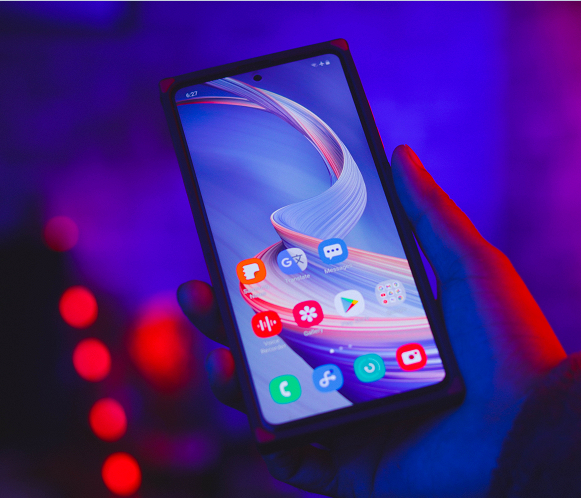
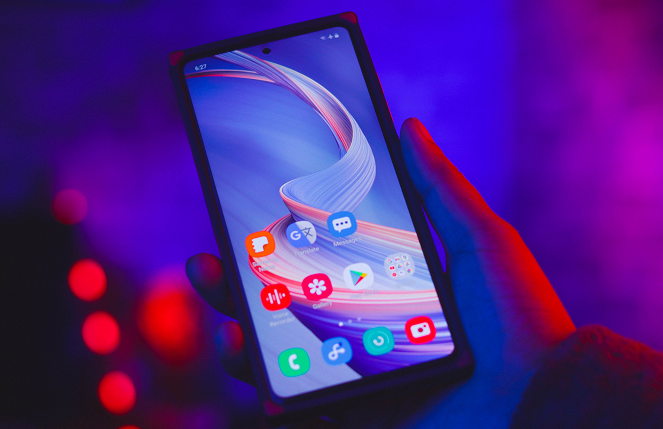
Projects page is mostly done. Added in two more mock projects. The different projects have different sizes, but it is kind of difficult to fix so I will come back to it later if I have some time.

diff --git a/projects.html b/projects.html
@@ -50,6 +50,20 @@
                             <h3>Project that uses machine learning to predict stock prices.</h3>
                         </div>
                     </div>
+                    <div class="carousel-item">
+                        <img class="d-block w-100" src="images/mobileScreen.png" alt="Hand holding mobile phone">
+                        <div class="white-text">
+                            <h3>Mobile Touch Screen Game</h3>
+                            <h3>Action game that takes full advantage of the possiblities offered by mobile phone touch screens.</h3>
+                        </div>
+                    </div>
+                    <div class="carousel-item">
+                        <img class="d-block w-100" src="images/cryptoCurrency.png" alt="Three bitcoins">
+                        <div class="white-text">
+                            <h3>Blockchain Digital Signing System</h3>
+                            <h3>Using decentralized blockchain to permanently store digital contracts.</h3>
+                        </div>
+                    </div>
                 </div>
                 <a class="carousel-control-prev" href="#carouselExampleControls" role="button" data-slide="prev">
                     <span class="carousel-control-prev-icon" aria-hidden="true"></span>

diff --git a/css/basic.css b/css/basic.css
@@ -33,10 +33,12 @@ body {
     position: fixed;
     text-align: left;
     left: 0;
-    bottom: 0;
+    bottom: 5%;
 }
 .carousel-item {
     z-index: 1;
+    box-sizing: content-box;
+    width:100%;
 }
 
 .carousel-control-prev {

diff --git a/README.md b/README.md
@@ -36,3 +36,5 @@ https://unsplash.com/photos/KnLj3o9A66E?utm_source=unsplash&utm_medium=referral&
 6. Saved the scaled dwown version of this image as "mobileScreen" for mock mobile game project placeholder image
 https://unsplash.com/photos/KbpjCGIcfbo?utm_source=unsplash&utm_medium=referral&utm_content=creditShareLink
 
+7. Saved and scaled down version of this image as "cryptoCurrency" for mock CryptoCurrency chain project placeholder image
+https://unsplash.com/photos/OG3A-ilG8AY?utm_source=unsplash&utm_medium=referral&utm_content=creditShareLink
